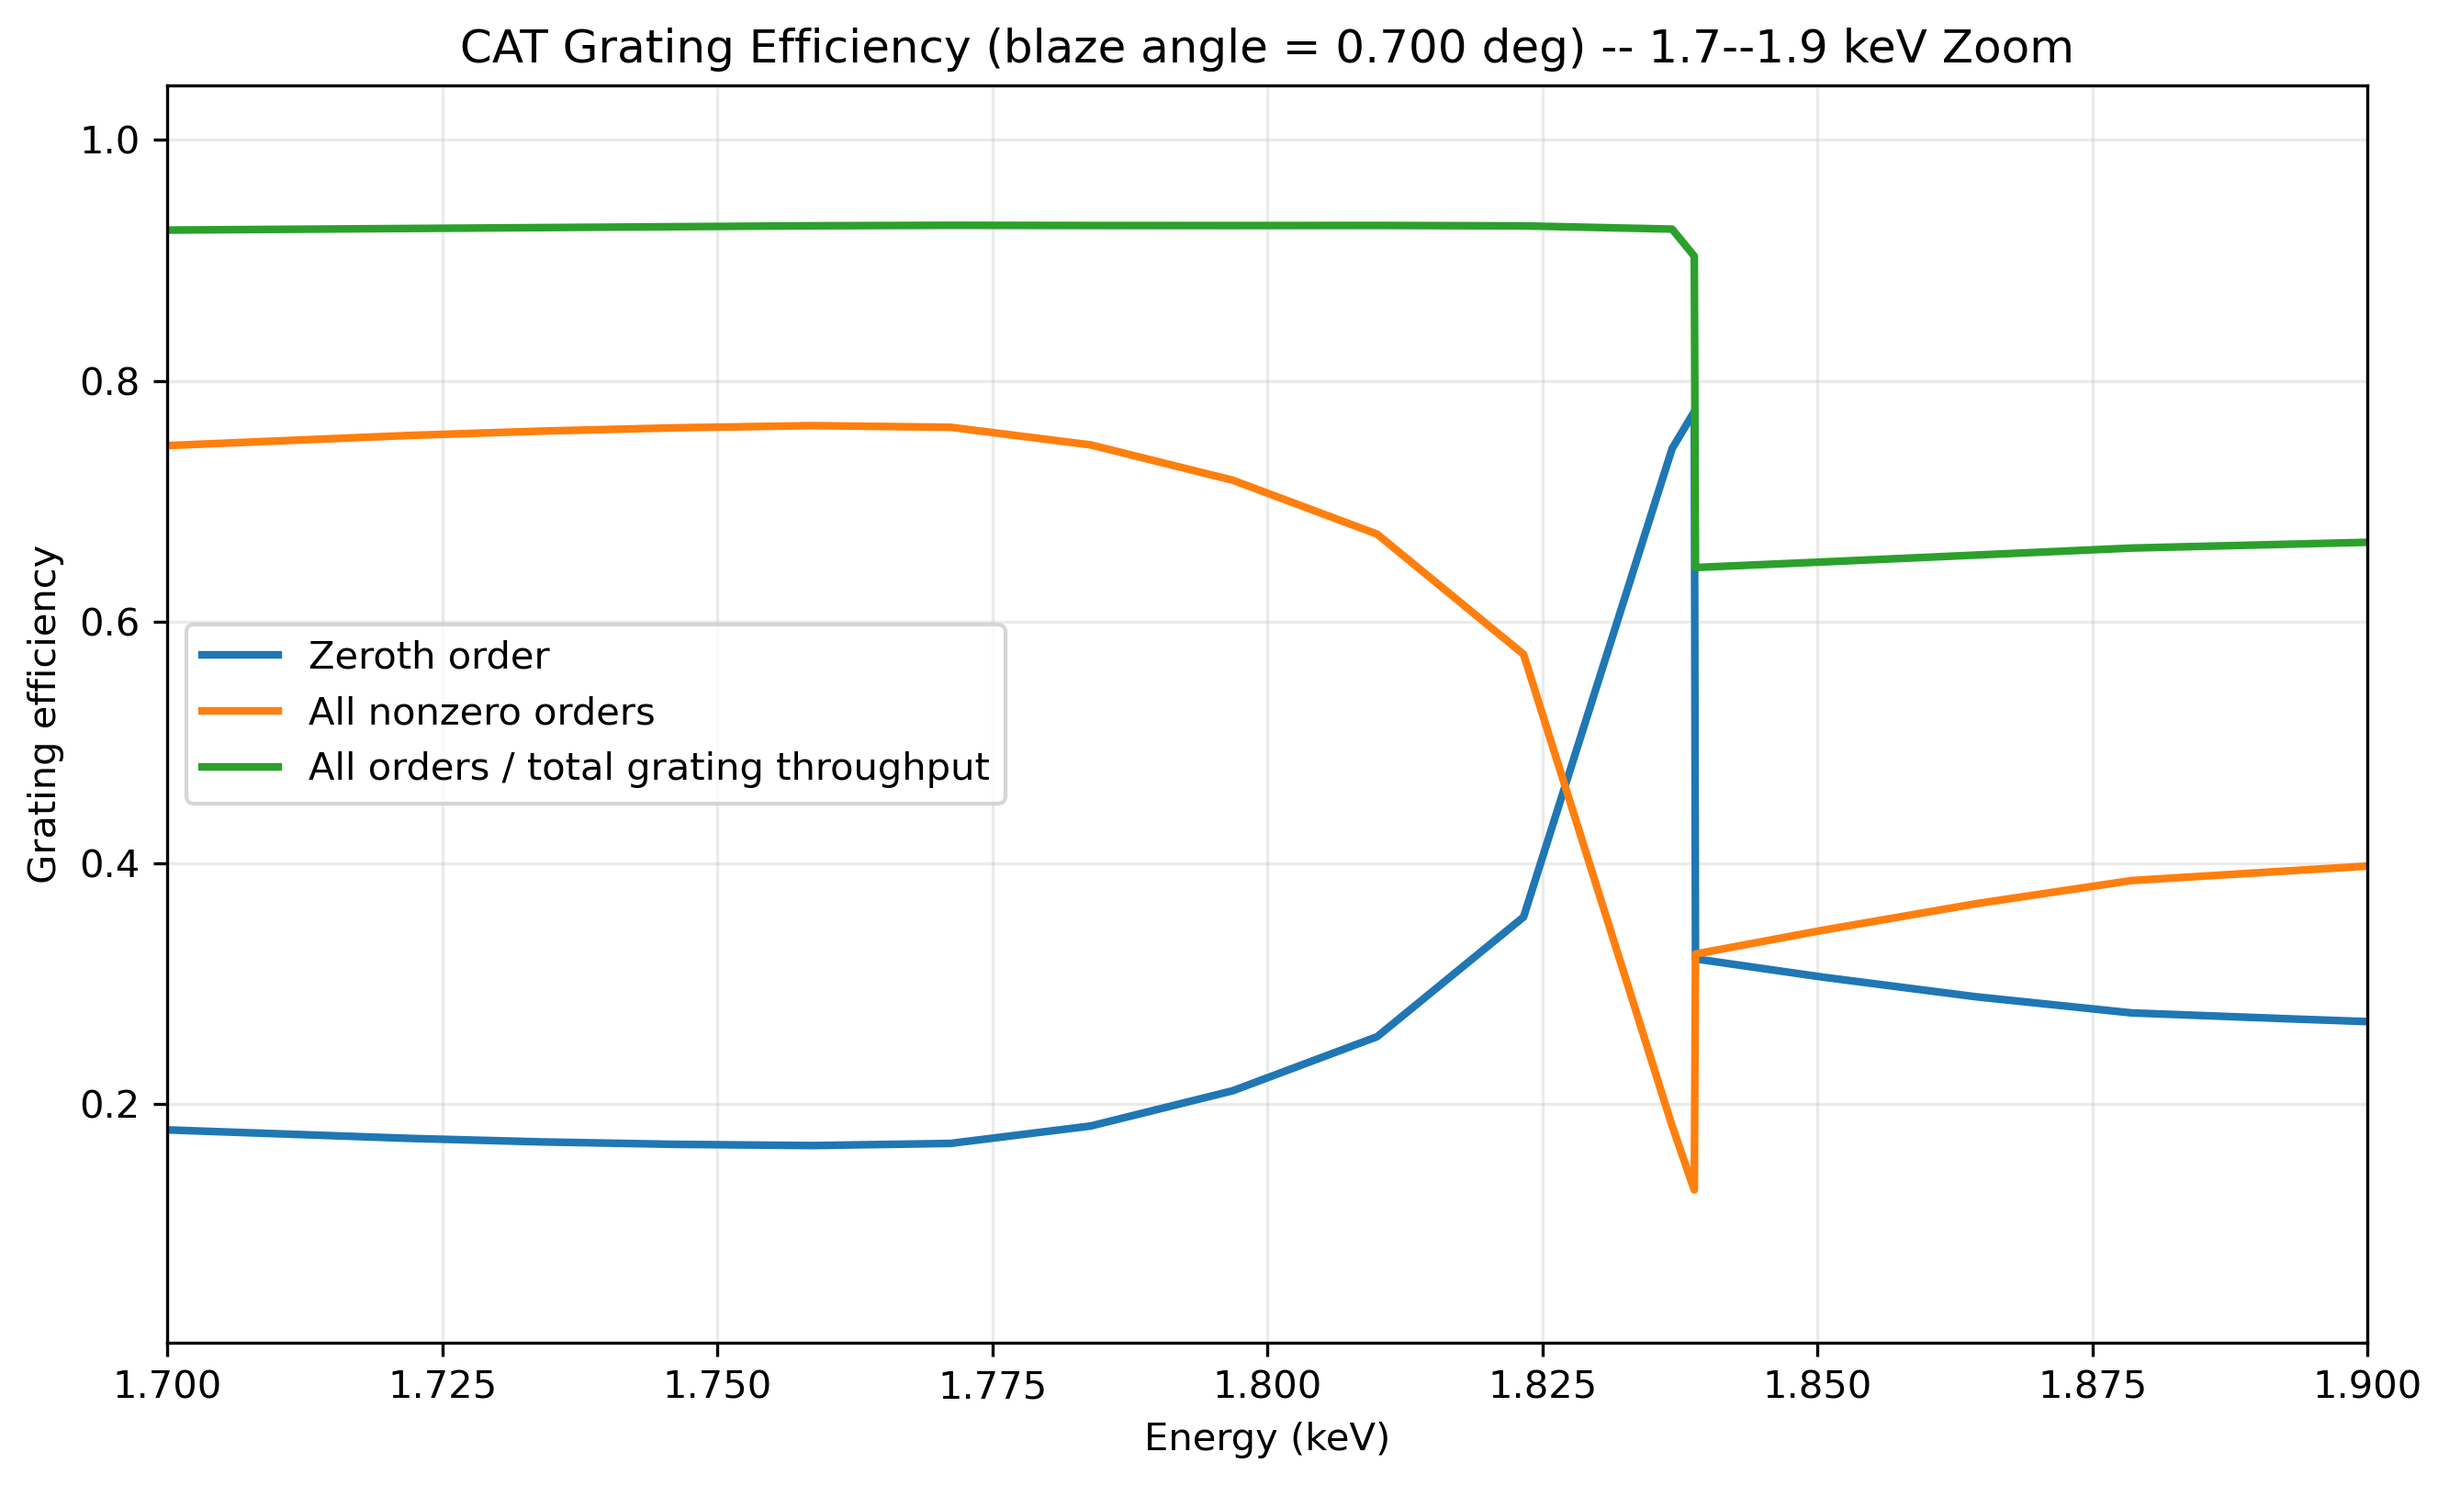
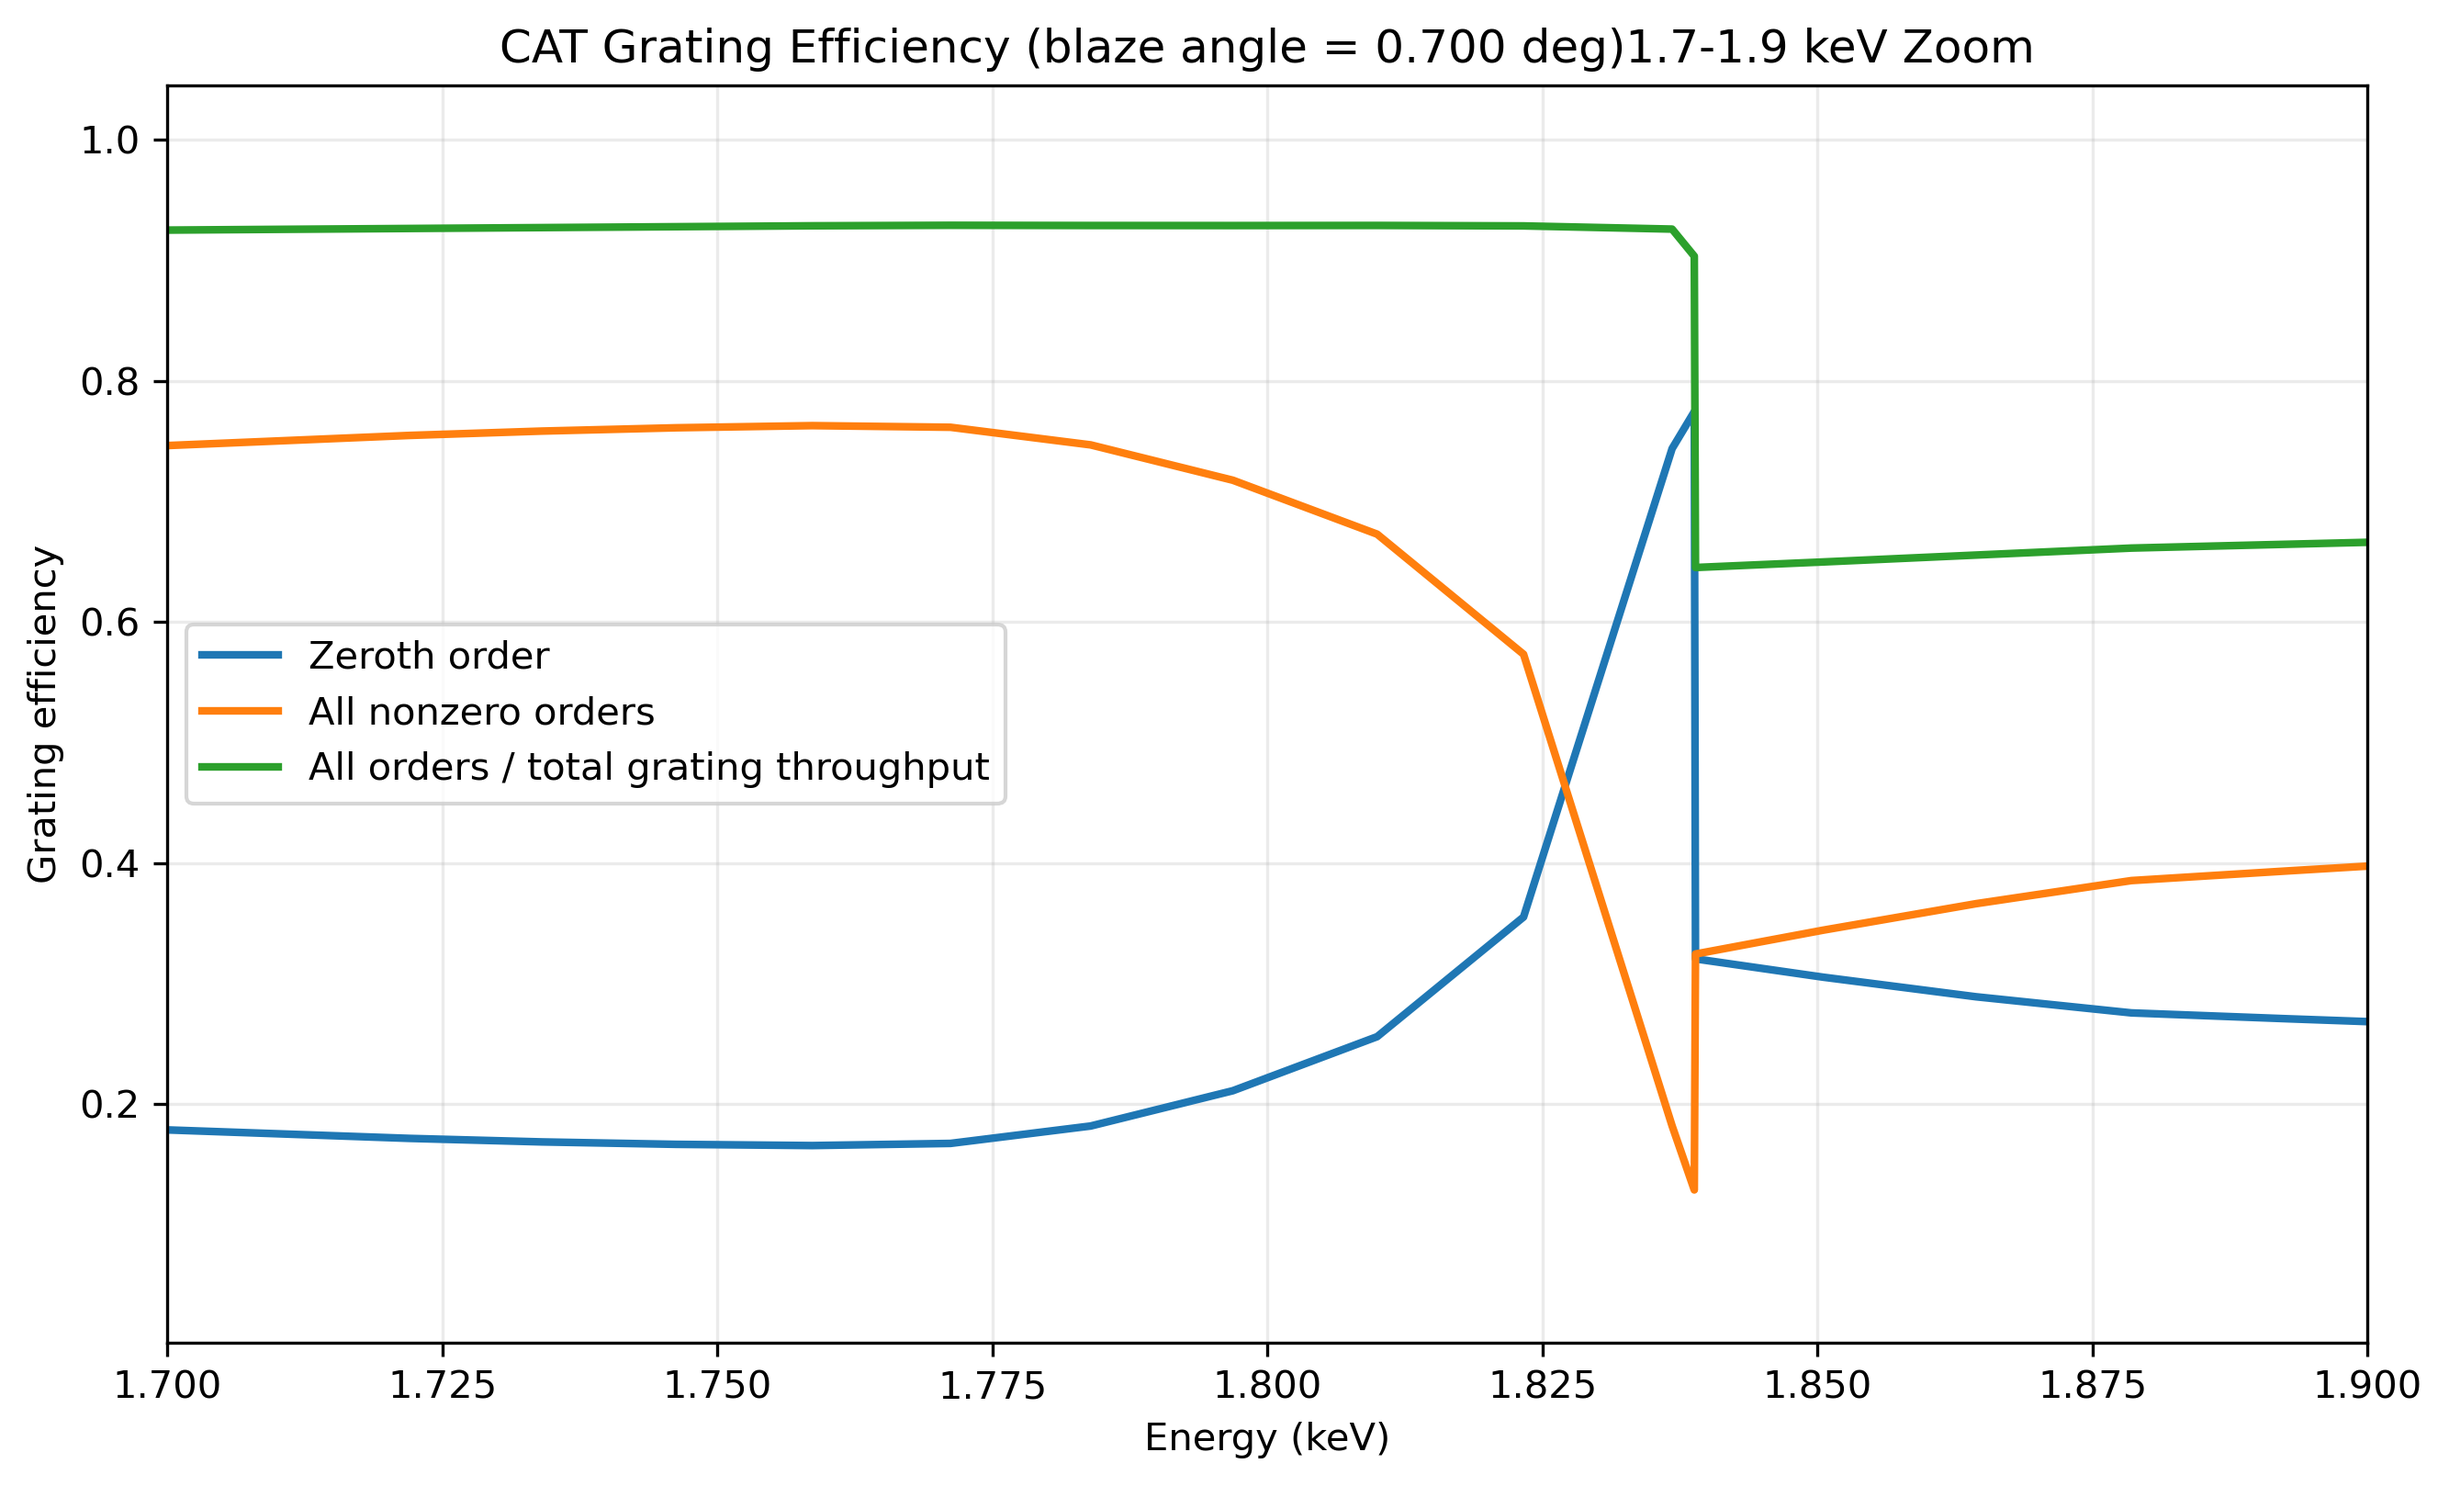
Fixed other graphs

Changed region(s): [[0.1867, 0.0, 0.8403, 0.0618]]

diff --git a/plot_redsox.py b/plot_redsox.py
@@ -73,7 +73,7 @@ def build_old_zeroth_order_model(data_dir):
     The legacy build_effective_areas() function in mdp_redsox.py still uses:
       - the constant mirror-area prescription
       - Si_4um_deep_for_MDP.tsv
-      - the original 32--64 Angstrom wavelength grid
+      - the original 32-64 Angstrom wavelength grid
 
     area0_lam returned by build_effective_areas() already contains dlam, so
     divide by dlam to recover A_eff in cm^2.
@@ -192,7 +192,7 @@ def plot_old_over_new_ratio(energy_old, aeff_old, energy_new, aeff_new, output_p
 
 
 def plot_final_ea_with_polarimetry_band(energy, aeff, output_path):
-    """Plot final updated zeroth-order EA and highlight 0.2--0.4 keV."""
+    """Plot final updated zeroth-order EA and highlight 0.2-0.4 keV."""
     energy, aeff = sorted_xy(energy, aeff)
 
     fig, ax = plt.subplots(figsize=(9, 5.5))
@@ -202,7 +202,7 @@ def plot_final_ea_with_polarimetry_band(energy, aeff, output_path):
         0.2,
         0.4,
         alpha=0.15,
-        label="Polarimetry band: 0.2--0.4 keV",
+        label="Polarimetry band: 0.2-0.4 keV",
     )
 
     ax.set_xlabel("Energy (keV)")
@@ -380,7 +380,7 @@ def plot_mrk421_count_rate_spectrum(energy, photon_flux_E, aeff, output_path):
     fig, ax = plt.subplots(figsize=(9, 5.5))
 
     ax.plot(energy, dR_dE, linewidth=2.0)
-    ax.axvspan(0.2, 0.4, alpha=0.15, label="Polarimetry band: 0.2--0.4 keV")
+    ax.axvspan(0.2, 0.4, alpha=0.15, label="Polarimetry band: 0.2-0.4 keV")
 
     ax.set_xlabel("Energy (keV)")
     ax.set_ylabel(r"$dR/dE$ (count s$^{-1}$ keV$^{-1}$)")
@@ -595,7 +595,7 @@ def run_testing_figures():
         grating_theta,
         output_dir / "05_grating_efficiencies_zoom_1p7_1p9_keV.png",
         xlim=(1.7, 1.9),
-        title_suffix=" -- 1.7--1.9 keV Zoom",
+        title_suffix="1.7-1.9 keV Zoom",
     )
 
     photon_flux_E, norm, gamma, nh = build_mrk421_spectrum(energy_new)
